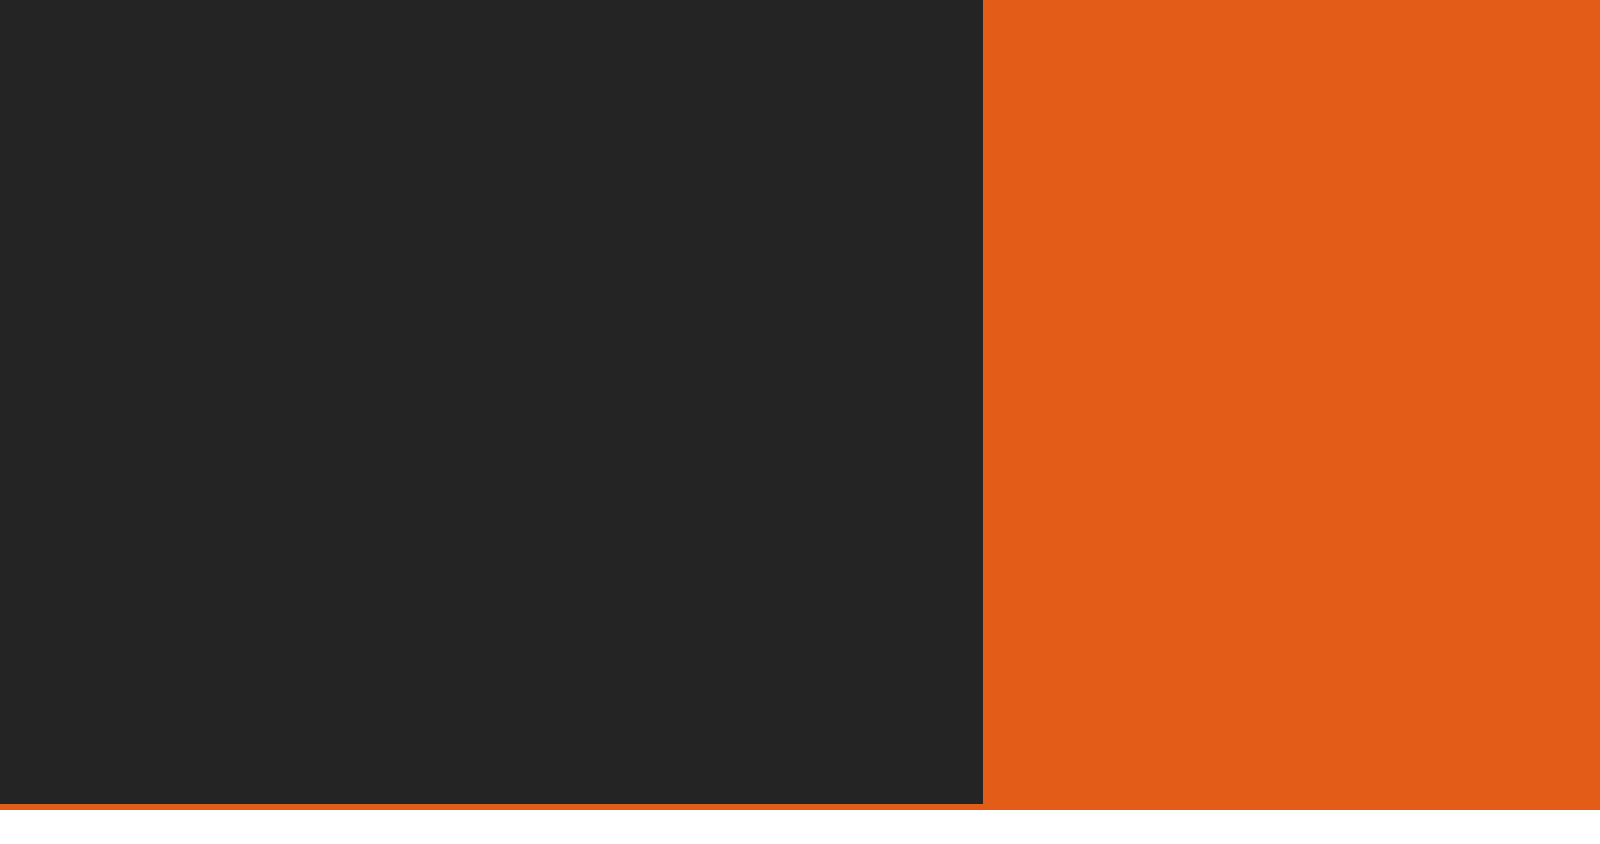
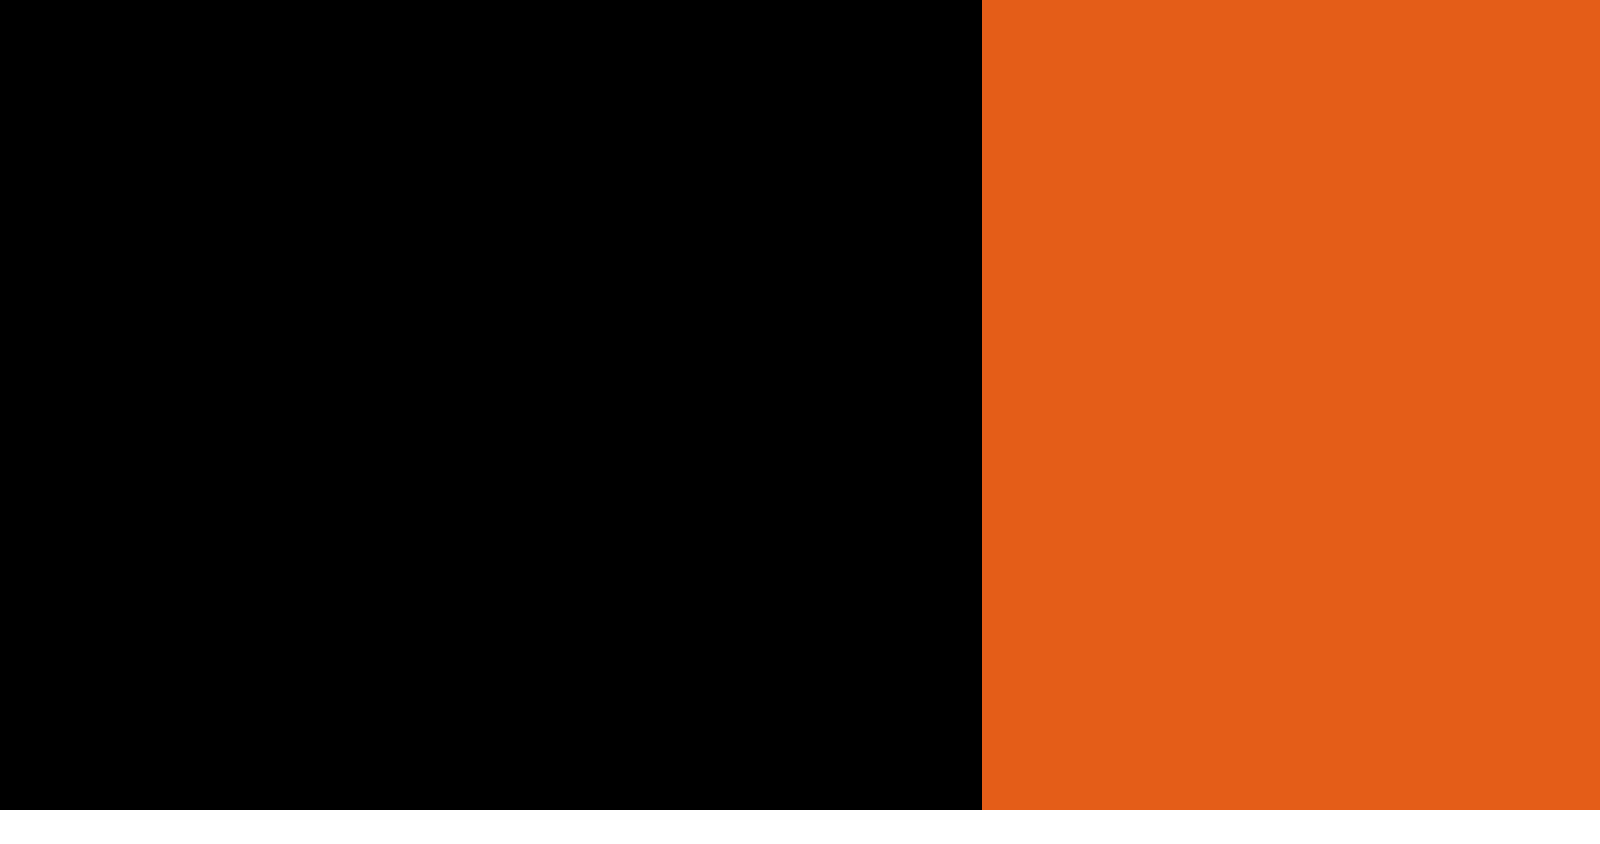
Add files via upload

diff --git a/index.html b/index.html
@@ -446,8 +446,9 @@
             Peter Mbugua
           </h5>
           <p>
-            Lorem ipsum dolor sit amet, consectetur adipiscing elit, sed do eiusmod tempor incididunt ut labore et
-            dolore
+            Peter Mbugua excels in web development, data analysis,
+             and brand strategy.
+             <p>With a blend of technical expertise and strategic thinking, he crafts compelling digital experiences that drive brand success
           </p>
           <div class="social_box">
             <a href="">
@@ -474,8 +475,12 @@
             Joshua Opiata
           </h5>
           <p>
-            Lorem ipsum dolor sit amet, consectetur adipiscing elit, sed do eiusmod tempor incididunt ut labore et
-            dolore
+            SEO Expert | Digital Marketer | Marketing Strategist
+            <p>
+
+            Joshua Opiata brings a wealth of expertise in SEO,
+             digital marketing, and marketing strategy to our team
+             
           </p>
           <div class="social_box">
             <a href="">
@@ -502,8 +507,12 @@
             Hugh Herschel
           </h5>
           <p>
-            Lorem ipsum dolor sit amet, consectetur adipiscing elit, sed do eiusmod tempor incididunt ut labore et
-            dolore
+            A creative powerhouse, specializing in photography,
+             videography, and graphic design.
+             
+             <p>With an artistic eye and technical
+              mastery, he captures moments and tells stories.
+              
           </p>
           <div class="social_box">
             <a href="">
@@ -532,22 +541,64 @@
     <div class="container">
       <div class="heading_container">
         <h2>
-          Testimonial
+          Our Blog Section
         </h2>
         <p>
-          consectetur adipiscing elit, sed do eiusmod tempor incididunt ut labore et dolore magna aliqua.
+        <!--How to approach SEO in 2024-->
         </p>
       </div>
     </div>
-    <div id="carouselExampleControls" class="carousel slide" data-ride="carousel">
-      <div class="carousel-inner">
-        <div class="carousel-item active">
+    
           <div class="container">
             <div class="box">
               <div class="img-box">
                 <img src="images/client.png" alt="">
               </div>
               <div class="detail-box">
+                <h6>
+                  HOW TO APPROACH SEO IN 2024
+                  
+                </h6>
+                <p>
+                  It is a long established fact that a reader will be distracted by the readable content of a page when
+                  looking at its layout. The point of using Lorem Ipsum is that it has a more-or-less normal
+                  distribution of
+                  letters, as opposed to using 'Content here, content here', making it look
+                </p>
+                <img src="images/quote.png" alt="">
+              </div>
+            </div>
+          </div>
+        </div>
+        
+          <div class="container">
+            <div class="box">
+              <div class="img-box">
+                <img src="images/client.png" alt="">
+              </div>
+              <div class="detail-box">
+                <h6>
+                  WHAT IS A VISUAL BRAND IDENTITY PACK
+                </h6>
+                <p>
+                  It is a long established fact that a reader will be distracted by the readable content of a page when
+                  looking at its layout. The point of using Lorem Ipsum is that it has a more-or-less normal
+                  distribution of
+                  letters, as opposed to using 'Content here, content here', making it look
+                </p>
+                <img src="images/quote.png" alt="">
+              </div>
+            </div>
+          </div>
+        </div>
+     
+          <div class="container">
+            <div class="box">
+              <div class="img-box">
+                <img src="images/client.png" alt="">
+              </div>
+              <div class="detail-box">
+                
                 <h6>
                   Normal distribution
                 </h6>
@@ -562,48 +613,30 @@
             </div>
           </div>
         </div>
-        <div class="carousel-item">
-          <div class="container">
-            <div class="box">
-              <div class="img-box">
-                <img src="images/client.png" alt="">
-              </div>
-              <div class="detail-box">
-                <h6>
-                  Normal distribution
-                </h6>
-                <p>
-                  It is a long established fact that a reader will be distracted by the readable content of a page when
-                  looking at its layout. The point of using Lorem Ipsum is that it has a more-or-less normal
-                  distribution of
-                  letters, as opposed to using 'Content here, content here', making it look
-                </p>
-                <img src="images/quote.png" alt="">
-              </div>
+        <div class="container">
+          <div class="box">
+            <div class="img-box">
+              <img src="images/client.png" alt="">
+            </div>
+            <div class="detail-box">
+              <a href=""></a>
+              <h6>                
+                jUDE
+              </h6>
+              <p>
+                <a href=""></a>
+                It is a long established fact that a reader will be distracted by the readable content of a page when
+                looking at its layout. The point of using Lorem Ipsum is that it has a more-or-less normal
+                distribution of
+                letters, as opposed to using 'Content here, content here', making it look
+              </p>
+              <img src="images/quote.png" alt="">
             </div>
           </div>
         </div>
-        <div class="carousel-item">
-          <div class="container">
-            <div class="box">
-              <div class="img-box">
-                <img src="images/client.png" alt="">
-              </div>
-              <div class="detail-box">
-                <h6>
-                  Normal distribution
-                </h6>
-                <p>
-                  It is a long established fact that a reader will be distracted by the readable content of a page when
-                  looking at its layout. The point of using Lorem Ipsum is that it has a more-or-less normal
-                  distribution of
-                  letters, as opposed to using 'Content here, content here', making it look
-                </p>
-                <img src="images/quote.png" alt="">
-              </div>
-            </div>
-          </div>
-        </div>
+      </div>
+
+        --
       </div>
       <div class="carousel_btn-container">
         <a class="carousel-control-prev" href="#carouselExampleControls" role="button" data-slide="prev">
@@ -617,7 +650,7 @@
 
   </section>
 
-  <!-- end client section -->
+  
 
   <div class="footer_bg">
 
@@ -672,11 +705,14 @@
           <div class="col-md-3">
             <div class="info_logo">
               <h3>
-                Seotech
-              </h3>
+                Ideaspace
+                Ideaspace
+                Ideaspace
+                Ideaspace
+                Ideaspace            
+             </h3>
               <p>
-                Lorem ipsum dolor sit amet, consectetur adipiscing elit, sed do eiusmod tempor indidunt ut labore et
-                dolore magna
+                <!--Excellence in the digital age-->
               </p>
             </div>
           </div>
@@ -711,7 +747,7 @@
                   <img src="images/telephone-white.png" width="12px" alt="">
                 </div>
                 <p>
-                  +01 1234567890
+                  +254 706 691 537
                 </p>
               </a>
               <a href="">
@@ -719,7 +755,7 @@
                   <img src="images/envelope-white.png" width="18px" alt="">
                 </div>
                 <p>
-                  demo@gmail.com
+                  ideaspacedigital@gmail.com
                 </p>
               </a>
             </div>
@@ -763,7 +799,7 @@
       <div class="container">
         <p>
           &copy; <span id="displayYear"></span> All Rights Reserved By
-          <a href="https://html.design/">Free Html Templates</a>
+          <a href="https://html.design/">Ideaspace </a>
         </p>
       </div>
     </section>

diff --git a/css/style.css b/css/style.css
@@ -71,12 +71,12 @@ body {
 .sub_page .hero_area {
   height: auto;
   background: none;
-  background-color: #252424;
+  background-color: #000000;
 }
 
 .sub_page .footer_bg {
   background: none;
-  background-color: #252424;
+  background-color: #000000;
   padding-top: 45px;
 }
 
@@ -330,7 +330,7 @@ a:focus {
 
 .slider_section .carousel_btn-container .carousel-control-prev:hover,
 .slider_section .carousel_btn-container .carousel-control-next:hover {
-  background-color: #252424;
+  background-color: #000000;
 }
 
 .slider_section .carousel_btn-container .carousel-control-prev {
@@ -371,7 +371,7 @@ a:focus {
 }
 
 .service_section {
-  background-color: #252424;
+  background-color: #000000;
   color: #ffffff;
   text-align: center;
 }
@@ -572,7 +572,7 @@ a:focus {
   border-radius: 25px;
   -webkit-transform: translateX(-52.5%) rotate(-15deg);
           transform: translateX(-52.5%) rotate(-15deg);
-  background-color: #252424;
+  background-color: #000000;
 }
 
 .team_section .team_container .box .detail-box {
@@ -667,7 +667,7 @@ a:focus {
 
 .client_section .carousel_btn-container .carousel-control-prev:hover,
 .client_section .carousel_btn-container .carousel-control-next:hover {
-  background-color: #252424;
+  background-color: #000000;
 }
 
 .client_section .carousel_btn-container .carousel-control-prev {
